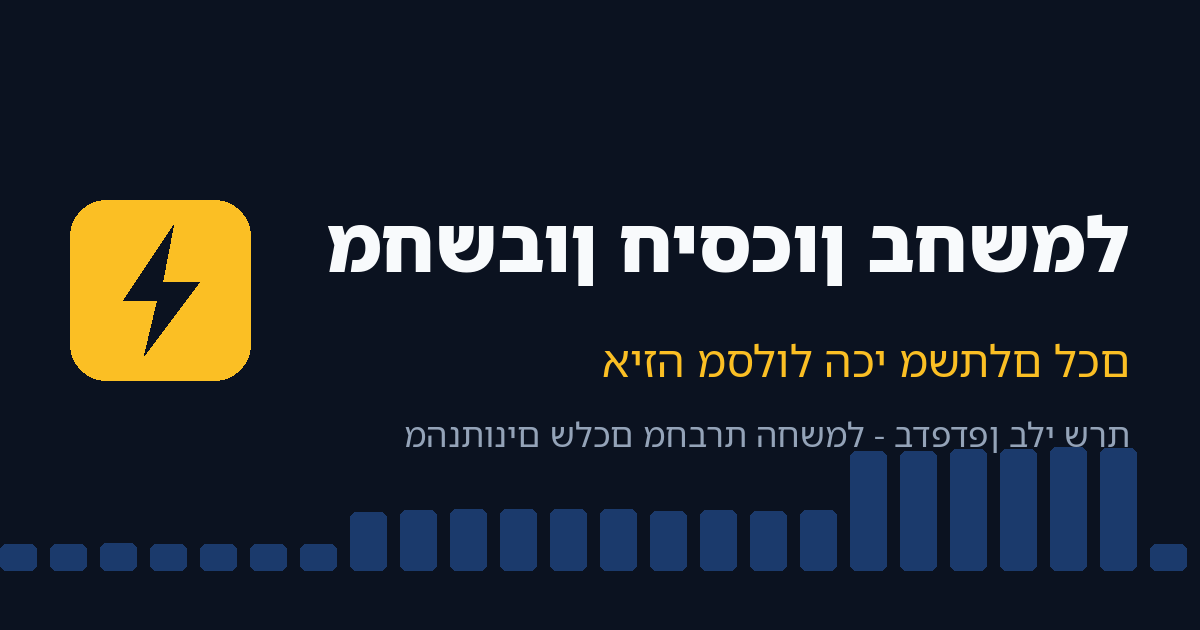
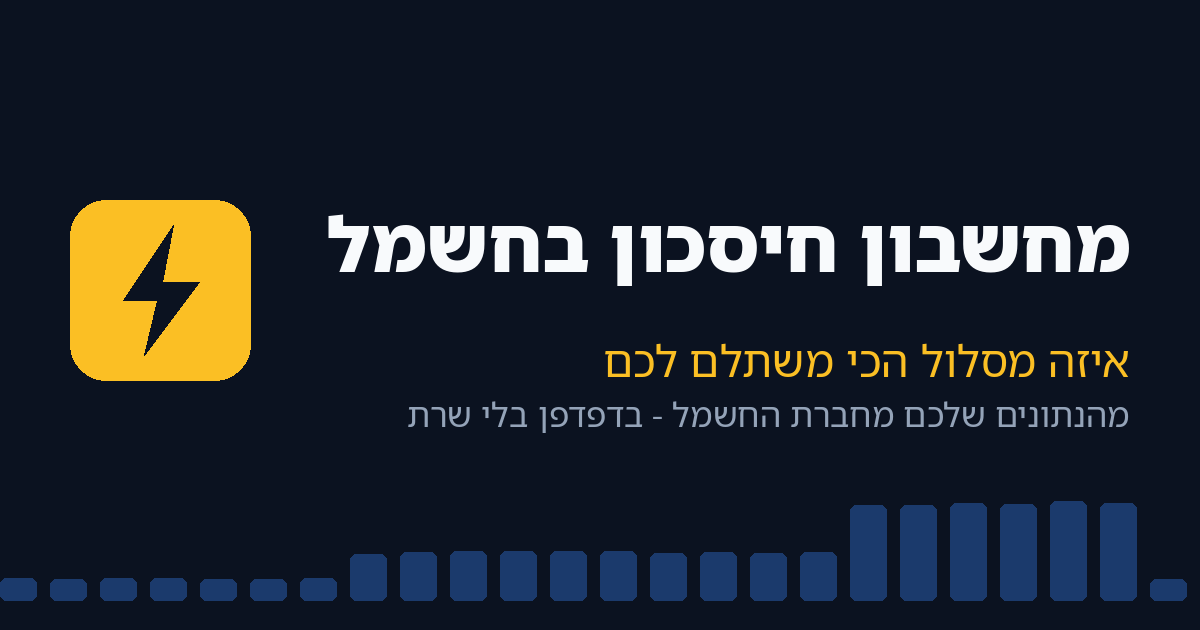
Fix og:image Hebrew rendering and caption/chart overlap
Render RTL via raqm (direction=rtl, language=he) instead of a manual
string reversal, which double-reversed under raqm builds. Footer moved
clear of the bar strip.

Changed region(s): [[0.0, 0.6333, 1.0, 0.9651], [0.2775, 0.3317, 0.9558, 0.4524], [0.4933, 0.5429, 0.9558, 0.6032]]

diff --git a/scripts/generate_og_assets.py b/scripts/generate_og_assets.py
@@ -10,7 +10,7 @@ from __future__ import annotations
 import sys
 from pathlib import Path
 
-from PIL import Image, ImageDraw, ImageFont
+from PIL import Image, ImageDraw, ImageFont, features
 
 ROOT = Path(__file__).resolve().parents[1]
 NOTO = "/usr/share/fonts/truetype/noto"
@@ -20,9 +20,22 @@ INK = (248, 250, 252)
 MUTED = (148, 163, 184)
 
 
-def rtl(s: str) -> str:
-    """Reverse a pure-Hebrew string for LTR rendering (no bidi lib needed)."""
-    return s[::-1]
+RAQM = features.check("raqm")
+
+
+def draw_rtl(d: ImageDraw.ImageDraw, pos, text: str, font, fill) -> None:
+    """Right-aligned Hebrew text. With raqm, Pillow does the bidi layout itself
+    (direction="rtl"); without it, fall back to a manual single reversal."""
+    if RAQM:
+        d.text(pos, text, font=font, fill=fill, anchor="ra", direction="rtl", language="he")
+    else:
+        d.text(pos, text[::-1], font=font, fill=fill, anchor="ra")
+
+
+def rtl_width(d: ImageDraw.ImageDraw, text: str, font) -> float:
+    if RAQM:
+        return d.textlength(text, font=font, direction="rtl", language="he")
+    return d.textlength(text[::-1], font=font)
 
 
 def bolt_poly(cx: float, cy: float, h: float) -> list[tuple[float, float]]:
@@ -57,10 +70,10 @@ def make_og() -> None:
     # bar strip from synthetic data (decorative, bottom)
     hourly = synthetic_hourly()
     peak = max(hourly) or 1.0
-    bw, gap, base_y = 36, 14, h - 60
+    bw, gap, base_y = 36, 14, h - 30
     x0 = (w - 24 * (bw + gap)) // 2
     for i, v in enumerate(hourly):
-        bh = int(120 * v / peak) + 4
+        bh = int(95 * v / peak) + 4
         od.rounded_rectangle([x0 + i * (bw + gap), base_y - bh, x0 + i * (bw + gap) + bw, base_y],
                              radius=6, fill=(56, 130, 246, 90))
     img = Image.alpha_composite(img.convert("RGBA"), overlay).convert("RGB")
@@ -77,14 +90,14 @@ def make_og() -> None:
     size = 96
     while size > 40:
         title_f = ImageFont.truetype(f"{NOTO}/NotoSansHebrew-Black.ttf", size)
-        if right - d.textlength(rtl("מחשבון חיסכון בחשמל"), font=title_f) >= left_limit:
+        if right - rtl_width(d, "מחשבון חיסכון בחשמל", title_f) >= left_limit:
             break
         size -= 4
     sub_f = ImageFont.truetype(f"{NOTO}/NotoSansHebrew-Regular.ttf", 44)
     foot_f = ImageFont.truetype(f"{NOTO}/NotoSansHebrew-Regular.ttf", 34)
-    d.text((right, 190), rtl("מחשבון חיסכון בחשמל"), font=title_f, fill=INK, anchor="ra")
-    d.text((right, 330), rtl("איזה מסלול הכי משתלם לכם"), font=sub_f, fill=BOLT, anchor="ra")
-    d.text((right, 410), rtl("מהנתונים שלכם מחברת החשמל - בדפדפן בלי שרת"), font=foot_f, fill=MUTED, anchor="ra")
+    draw_rtl(d, (right, 190), "מחשבון חיסכון בחשמל", title_f, INK)
+    draw_rtl(d, (right, 330), "איזה מסלול הכי משתלם לכם", sub_f, BOLT)
+    draw_rtl(d, (right, 390), "מהנתונים שלכם מחברת החשמל - בדפדפן בלי שרת", foot_f, MUTED)
     img.save(ROOT / "web" / "og-image.png", optimize=True)
 
 
